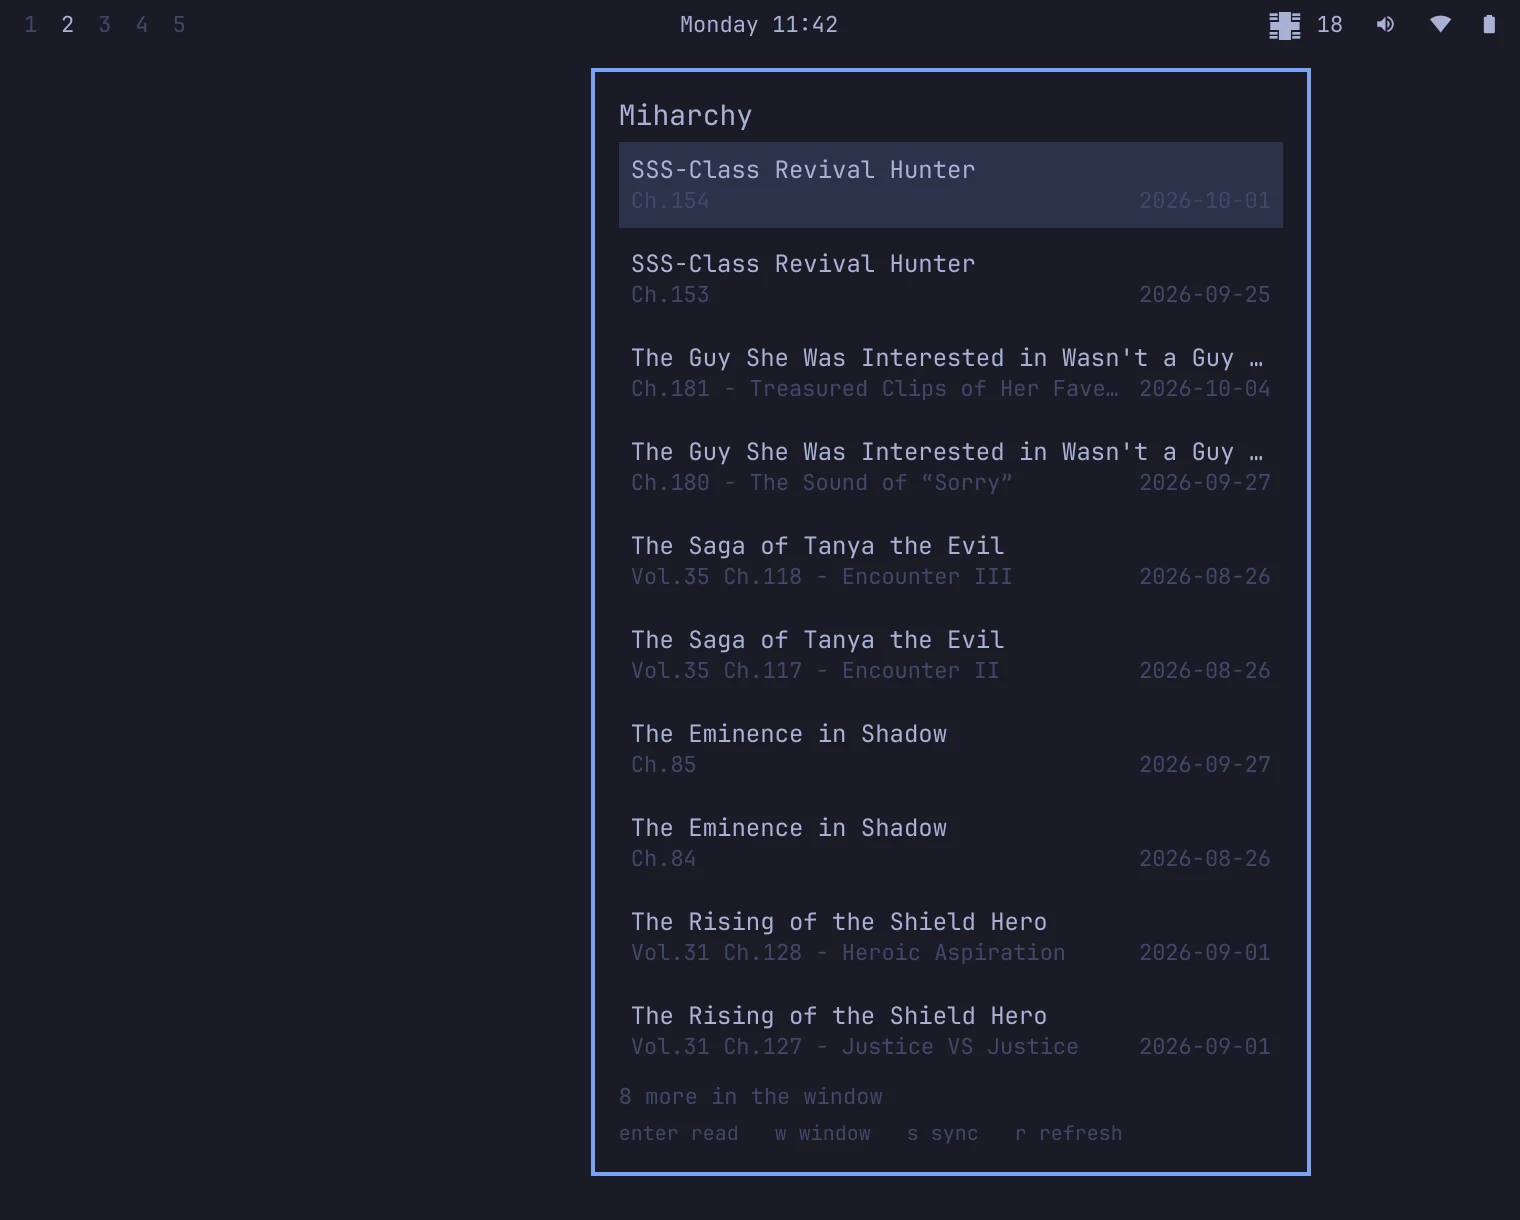
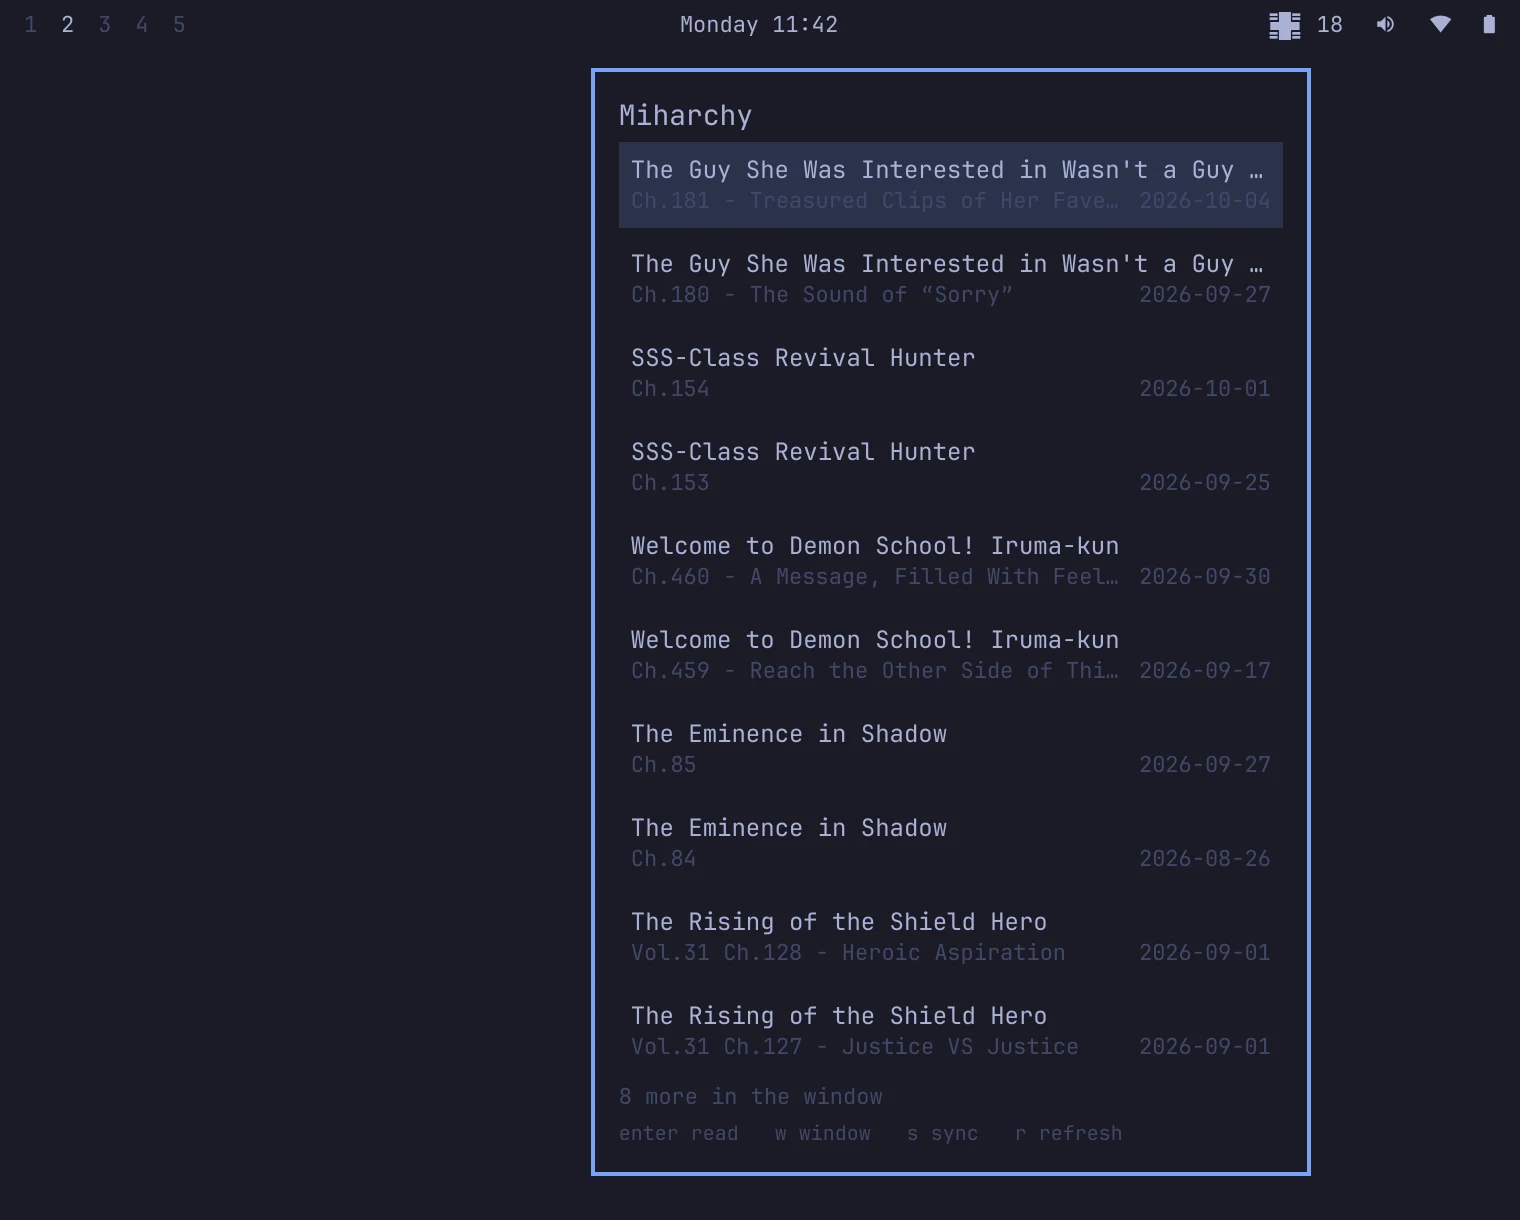
Show Updates after a real check, grouped by the days chapters were found
The scratch library was built in stages on shifted server clocks, so
the capture shows Today, Yesterday and two earlier days, and the status
line reports the library update run from the window.

diff --git a/site/index.html b/site/index.html
@@ -395,7 +395,7 @@ footer img { width: 32px; height: 32px; display: inline-block; vertical-align: m
       <figcaption><span class="no">04</span><span class="txt"><b>Webtoon.</b> Long strips scroll as one, picked from the manga's tags.</span></figcaption>
     </figure>
     <figure class="tape">
-      <a href="img/updates.webp"><img src="img/updates.webp" width="1280" height="800" alt="The Updates view listing new chapters of SSS-Class Revival Hunter, The Guy She Was Interested in Wasn't a Guy at All, The Saga of Tanya the Evil, The Eminence in Shadow, The Rising of the Shield Hero and Iruma-kun, with a downloaded marker and two bookmark stars." loading="lazy"></a>
+      <a href="img/updates.webp"><img src="img/updates.webp" width="1280" height="800" alt="The Updates view, last checked today, listing new chapters grouped by the day they were found: Today, Yesterday, 2026-10-02 and 2026-09-30. Series include The Guy She Was Interested in Wasn't a Guy at All, SSS-Class Revival Hunter, Iruma-kun, The Eminence in Shadow and The Rising of the Shield Hero, with a downloaded marker and two bookmark stars." loading="lazy"></a>
       <figcaption><span class="no">05</span><span class="txt"><b>Updates.</b> New chapters from your library, with bookmarks, downloads, filters and bulk actions.</span></figcaption>
     </figure>
     <figure class="tape wide">
